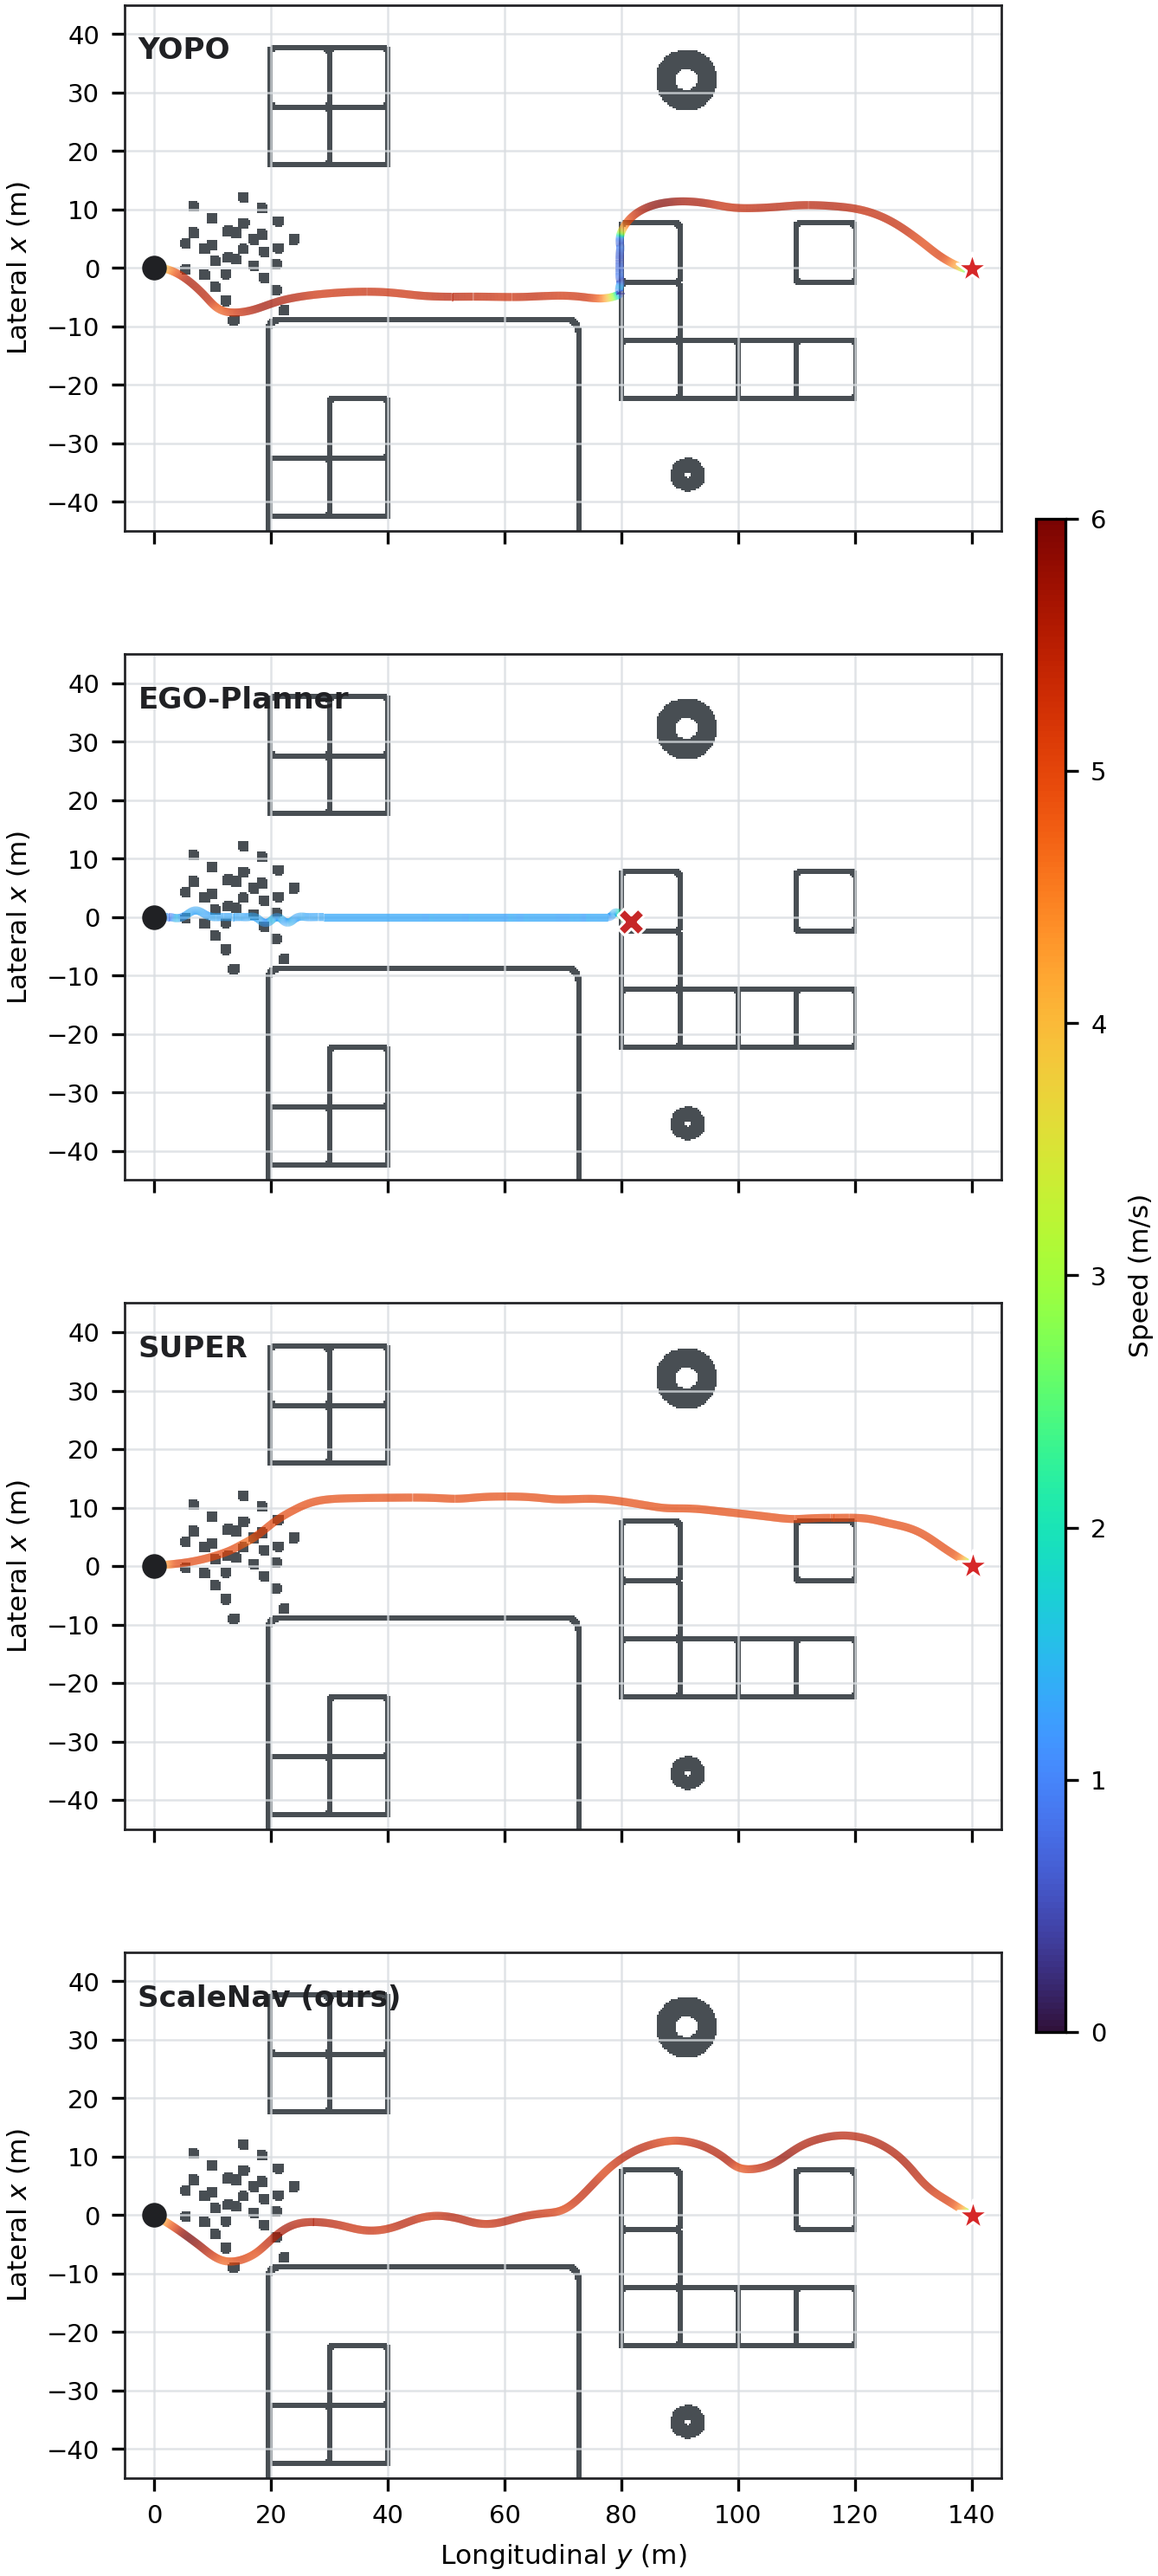
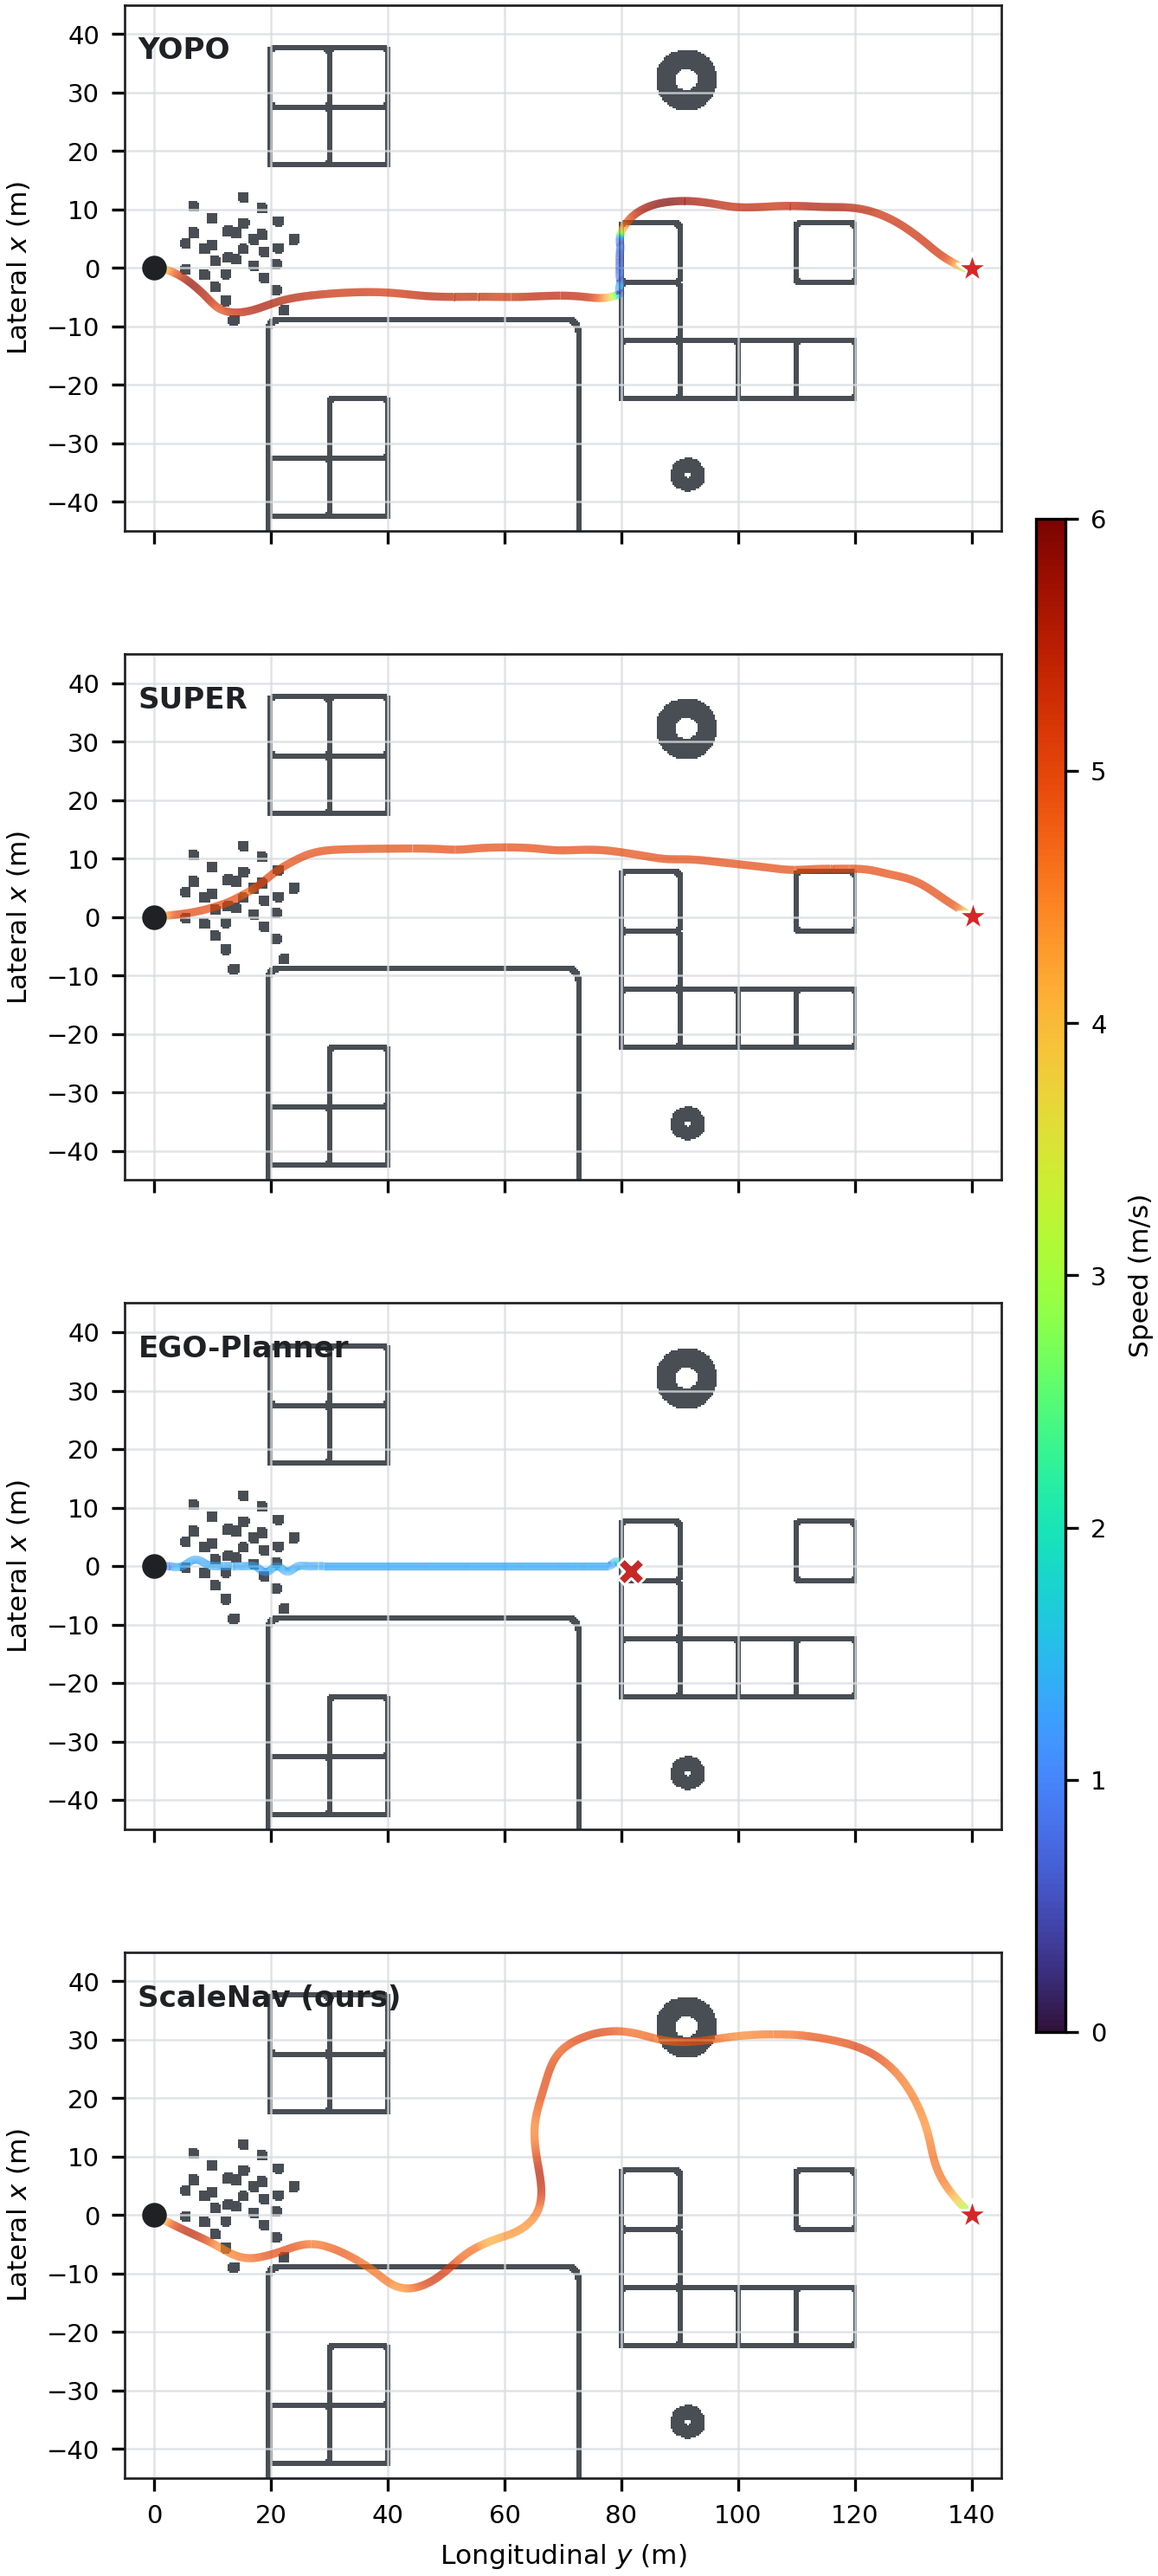
记录9月3日ScaleNav十次成功飞行并更新论文统计表与速度轨迹图
本次更新包括：

- 归档 run_20260903_204517_1504786 的配置和10次完整成功试验摘要，包含 trial 10 的 43.390 s 飞行记录及 0.068 m 终点误差。
- 将新批次加入论文实验数据，更新 ScaleNav 聚合指标为 100% 成功率、47.679±2.573 s、196.850±6.843 m、4.134±0.141 m/s 和 5.476±0.117 m/s。
- 同步论文摘要、主结果表和组件消融表，明确最新批次使用 blocks、wall 语义查询。
- 使用 2026-09-03 最新 ScaleNav 日志重新生成速度着色轨迹 PNG/PDF，并记录图源会话。
- 增强轨迹绘图器对日志中 inf/nan 目标值的兼容解析，不影响里程计和碰撞数据提取。

diff --git a/paper/scalenav/root.tex b/paper/scalenav/root.tex
@@ -77,7 +77,7 @@ ordered-bubble MPC; offline, a corridor-conditioned network trained on the
 same contract.  Semantic observations modify route costs but do not certify free
 space; geometric verification and depth-based local execution remain
 authoritative.  In 140-m closed-loop missions, ScaleNav completes all ten
-trials at $4.439\pm0.118$~m/s, compared with $3.759\pm0.009$~m/s for YOPO.  On
+trials at $4.134\pm0.141$~m/s, compared with $3.759\pm0.009$~m/s for YOPO.  On
 a paired 1,479-route offline benchmark, corridor conditioning reduces
 collision from $8.05\%$ to $0.14\%$ and corridor violation from $50.10\%$ to
 $25.22\%$, while raising average progress from $6.225$ to $6.502$~m.
@@ -682,7 +682,7 @@ YOPO            & 100 & 0 & 0 & $158.678\pm0.169$ & $42.210\pm0.128$ & $3.759\pm
 EGO-Planner     & 0   & 100 & 0 & \blank & \blank & \blank & \blank \\
 SUPER & 0 & 80 & 20 & \blank & \blank & \blank & \blank \\
 SUPER (5 m/s) & 10 & 60 & 30 & 144.658 & 30.614 & 4.725 & 5.082 \\
-ScaleNav (ours) & 100 & 0 & 0 & $157.403\pm5.194$ & $35.495\pm1.752$ & $4.439\pm0.118$ & $5.221\pm0.165$ \\
+ScaleNav (ours) & 100 & 0 & 0 & $196.850\pm6.843$ & $47.679\pm2.573$ & $4.134\pm0.141$ & $5.476\pm0.117$ \\
 \bottomrule
 \end{tabular}
 }
@@ -690,8 +690,9 @@ ScaleNav (ours) & 100 & 0 & 0 & $157.403\pm5.194$ & $35.495\pm1.752$ & $4.439\pm
 
 Outcome rates use all trials; continuous entries are mean $\pm$ standard
 deviation over successes.  SUPER at 5~m/s succeeded once, so it has no
-dispersion estimate; one startup failure was replaced.  ScaleNav completed all
-trials with query ``tree, blocks, wall, line.''  All closed-loop ScaleNav rows
+dispersion estimate; one startup failure was replaced.  The latest ScaleNav
+batch completed all ten trials with the deployed semantic query.  All
+closed-loop ScaleNav rows
 use the deployed execution variant---frontier-conditioned YOPO with
 ordered-bubble MPC refinement---not the corridor-trained network evaluated
 offline below.
@@ -738,7 +739,7 @@ witness corridor.  The no-target condition retains the semantic front end.}
 \cmidrule(lr){2-5} \cmidrule(lr){6-12}
 Variant & SE & FF & RM & WC & Succ. (\%)$\uparrow$ & Coll. (\%)$\downarrow$ & T/O (\%)$\downarrow$ & Path (m) & Time (s) & $\bar v$ (m/s) & $v_{\max}$ (m/s) \\
 \midrule
-\textbf{Full ScaleNav} & \checkmark & \checkmark & \checkmark & \checkmark & 100 & 0 & 0 & 157.403$\pm$5.194 & 35.495$\pm$1.752 & 4.439$\pm$0.118 & 5.221$\pm$0.165 \\
+\textbf{Full ScaleNav} & \checkmark & \checkmark & \checkmark & \checkmark & 100 & 0 & 0 & 196.850$\pm$6.843 & 47.679$\pm$2.573 & 4.134$\pm$0.141 & 5.476$\pm$0.117 \\
 \midrule
 w/o semantic front end  & $\times$   & $\times$   & \checkmark & \checkmark & 70 & 30 & 0 & 156.510$\pm$3.339 & 33.620$\pm$0.856 & 4.656$\pm$0.071 & 5.445$\pm$0.121 \\
 No task-relevant semantics & \checkmark & \checkmark & \checkmark & \checkmark & 80 & 20 & 0 & 154.205$\pm$1.591 & 49.981$\pm$1.247 & 3.087$\pm$0.093 & 4.491$\pm$0.290 \\

diff --git a/paper/scalenav/plot_speed_trajectories.py b/paper/scalenav/plot_speed_trajectories.py
@@ -131,7 +131,13 @@ def load_flight(
     collision_stamps_ns = []
     with path.open(encoding="utf-8") as stream:
         for line in stream:
-            event = json.loads(line)
+            # Planner timing records may contain non-standard JSON ``inf``
+            # values for unavailable objectives; they are irrelevant to the
+            # odometry/collision fields used by this plot.
+            line = (line.replace(":-inf", ":-Infinity")
+                    .replace(":inf", ":Infinity")
+                    .replace(":nan", ":NaN"))
+            event = json.loads(line, parse_constant=lambda value: float(value))
             if event.get("kind") == "mission":
                 mission_event = (event.get("data") or {}).get("event")
                 if mission_event == "start" and mission_start_ns is None:

diff --git a/paper/scalenav/test_data/README.md b/paper/scalenav/test_data/README.md
@@ -13,6 +13,7 @@ error at most 0.5 m and settling speed at most 0.3 m/s. The mission timeout is
 | Directory | Source run | Condition | Outcomes |
 | --- | --- | --- | --- |
 | `closed_loop/scalenav_semantic_20260829_171743` | `run_20260829_171743_48724` | ScaleNav, semantic enabled, prompt `tree, blocks, wall, line` | 10 success |
+| `closed_loop/scalenav_semantic_20260903_204517` | `run_20260903_204517_1504786` | ScaleNav, semantic enabled, prompt `blocks, wall` | 10 success |
 | `closed_loop/scalenav_semantic_20260830_105607` | `run_20260830_105607_424081` | Latest previously analyzed ScaleNav semantic batch | 8 success, 1 collision, 1 timeout |
 | `closed_loop/scalenav_no_semantic_20260829_172657` | `run_20260829_172657_72293` | ScaleNav, semantic disabled | 7 success, 3 collision |
 | `closed_loop/yopo_simple_20260903_085045` | `run_20260903_085045_1991187` | Original YOPO-Simple, direct mission-goal input | 10 collision |
@@ -24,7 +25,7 @@ Each directory contains:
 - `summary.csv`: one row per trial, copied from the automated test output.
 - `config.json`: mission and test-run configuration.
 
-`aggregate_metrics.csv` is derived from these six `summary.csv` files.
+`aggregate_metrics.csv` is derived from these seven `summary.csv` files.
 Completion time, path length, average speed, and maximum speed in the
 `successful_*` columns use successful trials only. Early collision duration
 and path must not be interpreted as completion performance; they are retained

diff --git a/paper/scalenav/pics/experiments/map2_0_140_1p6/README.md b/paper/scalenav/pics/experiments/map2_0_140_1p6/README.md
@@ -64,6 +64,8 @@ Raw logs:
 - `bc/log_event/run_ego_map2_invalid_wrong_map_20260828/` (excluded)
 - `bc/log_event/run_super_map2_invalid_wrong_map_20260828/` (excluded)
 - `log_scalenav/session_20260828_172015_373/` (figure and table trajectory)
+- `log_scalenav/session_20260903_205400_601/` (latest ten-trial ScaleNav
+  trajectory used by the updated comparison figure)
 
 The comparison plot is generated by `paper/scalenav/plot_speed_trajectories.py`.
 Each regeneration archives any previous PNG/PDF in the sibling `history/`
